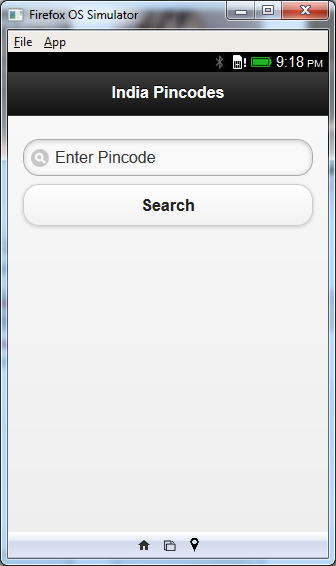
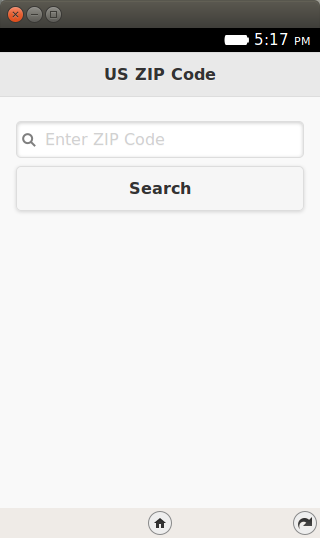
Updated Episode 2 for new API source and github repo.

diff --git a/source/_static/episode02/zipcode.js b/source/_static/episode02/zipcode.js
@@ -1,0 +1,25 @@
+$(document).ready(function() {
+    //Invoke ZIP Code Search API
+    $("#btnSearch").click(function() {
+        zipcode = $("#searchCriteria").val();
+        var xhr = new XMLHttpRequest({mozSystem: true});
+        xhr.open("GET", "http://api.zippopotam.us/us/" + zipcode, true);
+        xhr.onreadystatechange = function() {
+            if (xhr.readyState == 4) {
+                var result = "";
+                var resp = JSON.parse(xhr.response);
+                var city = resp.places[0]['place name'];
+                var state = resp.places[0]['state'];
+                var longitude = resp.places[0]['longitude'];
+                var latitude = resp.places[0]['latitude'];
+                result += "<li>Latitude: " + latitude + "</li>";
+                result += "<li>Longitude: " + longitude + "</li>";
+                result += "<li>City: " + city + "</li>";
+                result += "<li>State: " + state + "</li>";
+                $("#searchResults").html(result);
+                $('#searchResults').listview('refresh');
+            }
+        }
+        xhr.send();
+    });
+});

diff --git a/source/_static/episode02/index.html b/source/_static/episode02/index.html
@@ -1,0 +1,32 @@
+<!DOCTYPE html> 
+<html>
+<head>
+  <meta charset="utf-8">
+  <meta name="viewport" content="width=device-width, initial-scale=1"> 
+  <title>US ZIP Code</title> 
+  <link rel="stylesheet" href="jquery.mobile-1.4.5.min.css">
+  <script src="jquery-2.1.4.min.js"></script>
+  <script src="jquery.mobile-1.4.5.min.js"></script>
+  <script src="zipcode.js"></script>
+</head> 
+
+<body> 
+  <div data-role="page" id="home">
+
+    <div data-role="header" data-position="fixed">
+      <h3>US ZIP Code</h3>  
+    </div><!-- /page header -->
+
+    <div data-role="content">
+      <input type="search" id="searchCriteria" value=""
+      placeholder="Enter ZIP Code" autofocus>
+      <a href="#" id="btnSearch" data-role="button">Search</a>
+      <div id="linebreak">&nbsp;</div>	
+      <ul data-role="listview" id="searchResults">
+
+      </ul>		
+    </div><!-- /page content -->
+
+  </div><!-- /page home -->
+</body>
+</html>

diff --git a/source/episode02.rst b/source/episode02.rst
@@ -44,6 +44,8 @@ The Firefox Marketplace which we shall see in a later episode supports listing
 of both Hosted and Packaged Applications.
 
 
+.. index:: ajax, API
+
 Episode 2 in Action
 -------------------
 
@@ -57,11 +59,11 @@ different Pincodes in India. Pincodes are similar to Zipcodes if you want an
 analogy. You enter a valid Pincode in the application and it will give you the
 details of that Pincode i.e. its State name, District Name, etc.
 
-The mobile application makes use of an external Web service called `India
-Pincodes <http://www.programmableweb.com/api/india-pincode>`__. This will also
-help demonstrate making Ajax calls over the network from your Firefox OS
-Mobile. Nothing special there but by taking a little more realistic example, it
-will help set off things on the right note.
+The mobile application makes use of an external Web service called `Zip Code
+Galore! <http://api.zippopotam.us>`__. This will also help demonstrate making
+Ajax calls over the network from your Firefox OS Mobile. Nothing special there
+but by taking a little more realistic example, it will help set off things on
+the right note.
 
 All right then, the first screen of the mobile app is shown below:
 
@@ -69,8 +71,8 @@ All right then, the first screen of the mobile app is shown below:
    :alt: App before entering pin code 
    :height: 350px
 
-When we enter a valid pincode e.g. **110001**, the app makes a call to the
-Pincode service and retrieves/parses/displays the information as shown below:
+When we enter a valid pincode e.g. **20001**, the app makes a call to the
+ZIP code service and retrieves/parses/displays the information as shown below:
 
 .. image:: illustrations/episode02/app_in_action2.png
    :alt: App after submitting pin code 
@@ -87,89 +89,39 @@ I suggest that you begin with a full download of the project source code. Since
 the project depends on libraries like jQuery and jQuery Mobile, it will save
 you the hassle of downloading the dependent libraries.
 
-Go ahead and download the code from:
-`https://github.com/rominirani/IndiaPincodesApp
-<https://github.com/rominirani/IndiaPincodesApp>`__
+Go ahead and download the code from: `https://github.com/jelkner/zipcodeapp
+<https://github.com/jelkner/zipcodeapp>`__
 
 Extract all the code in some folder. For e.g. on my machine, the code is
-present in e:\firefox-os-blog\episode2\IndiaPincodesApp but it could be any
-directory of your choice. You should see a folder structure inside of
-IndiaPincodesApp, that looks something like this:
+present in ``$HOME/Projects/zipcodeapp`` but it could be any directory of your
+choice. You should see a folder structure inside of ``zipcodeapp``, that looks
+like this:
 
 .. image:: illustrations/episode02/folder_structure.png
    :alt: App folder structure 
-   :height: 150px
+   :height: 300px
 
 You will notice that ``jQuery`` and ``jQueryMobile`` libraries are present but
-the key files that make up your application are ``index.html`` and the
-``manifest.webapp`` file that we shall discuss next.
+the key files that make up your application are ``index.html``, ``zipcode.js``,
+and the ``manifest.webapp`` files that we shall discuss next.
 
 
-The code – index.html
----------------------
+The UI  – index.html
+--------------------
 
 Since our application is a simple single screen application, all we need at
-this point is a single ``index.html`` file. The code for the same is shown
+this point is a single ``index.html`` file together with the ``zipcode.js``
+file that contains the programming logic. The code for ``index.html`` is shown
 below:
 
-.. sourcecode:: guess
-    :linenos:
+.. literalinclude:: _static/episode02/index.html
+   :language: html
+   :linenos:
 
-    <!DOCTYPE html> 
-    <html>
- 
-    <head>
-        <meta charset="utf-8">
-        <meta name="viewport" content="width=device-width, initial-scale=1"> 
-        <title>India Pincodes</title> 
-        <link rel="stylesheet" href="jquery.mobile-1.3.1.min.css" />
-        <script src="jquery-1.7.1.min.js"></script>
-        <script src="jquery.mobile-1.3.1.min.js"></script>
-        <script>
-            $(document).ready(function() {
-              //Invoke Pincode Search API
-              $("#btnSearch").click(function(){
-                pincode = $("#searchCriteria").val();
-                var xhr = new XMLHttpRequest({mozSystem: true});
-                xhr.open("GET",
-                         "http://pin-codes.in/api/pincode/" + pincode,
-                          true);
-                xhr.onreadystatechange = function() {
-                  if (xhr.readyState == 4) {
-                    obj = JSON.parse(xhr.responseText);
-                    result = "<li>Post Office: " + obj.PostOffice + "</li>";
-                    result += "<li>District: " + obj.District + "</li>";
-                    result += "<li>State: " + obj.State + "</li>";
-                    console.log(result);
-                    $("#searchResults").html(result);
-                    $('#searchResults').listview('refresh');
-                  }
-                }
-                xhr.send();
-              });
-            });
 
-    </script>
-</head> 
- 
-<body> 
- 
-<!-- Start of first page: #home -->
-<div data-role="page" id="home">
- 
-    <div data-role="header" data-position="fixed">
-        <h3>India Pincodes</h3>  
-    </div><!-- /header -->
- 
-    <div data-role="content">
-        <input type="search" id="searchCriteria" value="" placeholder="Enter Pincode" autofocus/>
-        <a href="#" id="btnSearch" data-role="button">Search</a>
-        <div id="linebreak">&nbsp;</div>        
-        <ul data-role="listview" id="searchResults">
- 
-        </ul>           
- 
-    </div><!-- /content -->
-</div><!-- /page home -->
-</body>
-</html>
+The code - zipcode.js
+---------------------
+
+.. literalinclude:: _static/episode02/zipcode.js
+   :language: javascript 
+   :linenos:
